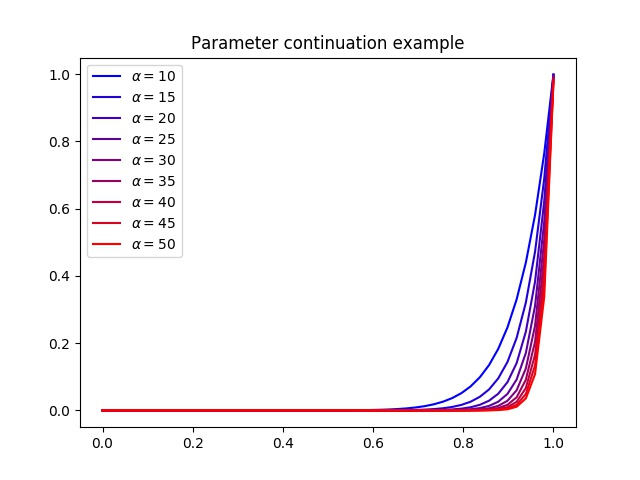
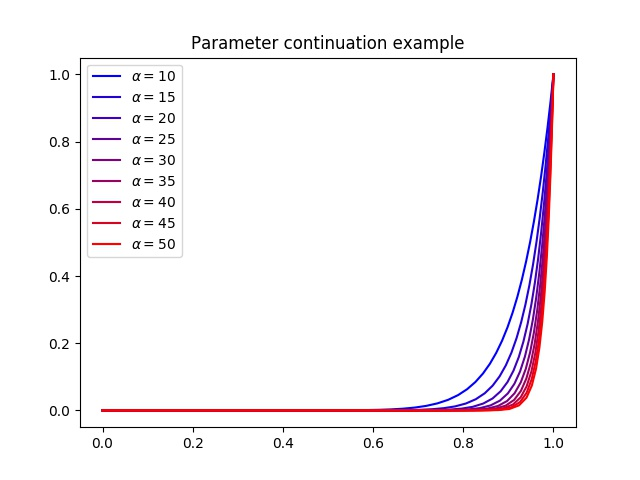
Added getitem methods, save/load test passed, updated documentation

Changed region(s): [[0.75, 0.2188, 0.875, 0.8438], [0.0625, 0.5625, 0.125, 0.5938]]

diff --git a/daepy/collocation.py b/daepy/collocation.py
@@ -8,7 +8,7 @@ class CollocationSolution():
     '''
     Multivariate piecewise polynomial where *N* is the number of components, *degree* is the degree of the continuous components, *breakpoints* are the ends of the subintervals and *continuous* is an (N,) numpy array of booleans determining which components are continuous. If *continuous* is `True` or `False` then all components are set to be continuous or not respectively.
 
-    Each component is a :class:`UnivariateCollocationSolution`. These can be accessed via the :attr:`components` attribute which is a list of the :class:`UnivariateCollocationSolution` components.
+    Each component is a :class:`UnivariateCollocationSolution`. These can be accessed by indexing the object or via the :attr:`components` attribute which is a list of the :class:`UnivariateCollocationSolution` components.
 
     .. note::
         Labelling a component as continuous does not guarantee that it will be continuous, it only means that it will be represented by poynomials one degree higher than components labelled as not continuous.
@@ -26,16 +26,19 @@ class CollocationSolution():
         self.intervals = len(self.breakpoints) - 1
         self.collocation_points = np.concatenate([(self.points + 1) / 2 * (self.breakpoints[i+1] - self.breakpoints[i]) + self.breakpoints[i] for i in range(self.intervals)])
         self.components = [UnivariateCollocationSolution(self.degree, self.breakpoints, self.continuous[n]) for n in range(self.N)]
-        self.dimension = sum([self.components[n].dimension for n in range(self.N)])
+        self.dimension = sum([self[n].dimension for n in range(self.N)])
 
     def __call__(self, x):
         return self.eval(x)
+
+    def __getitem__(self, n):
+        return self.components[n]
 
     def get_coeffs(self):
         '''
         Returns the polynomial coefficients.
         '''
-        return np.concatenate([self.components[n].coeffs for n in range(self.N)])
+        return np.concatenate([self[n].coeffs for n in range(self.N)])
 
     def update_coeffs(self, vals):
         '''
@@ -43,8 +46,8 @@ class CollocationSolution():
         '''
         start = 0
         for n in range(self.N):
-            self.components[n].update_coeffs(vals[start:start+self.components[n].dimension])
-            start += self.components[n].dimension
+            self[n].update_coeffs(vals[start:start+self[n].dimension])
+            start += self[n].dimension
 
     def fit(self, x, data, degree=None):
         '''
@@ -53,50 +56,50 @@ class CollocationSolution():
         if degree is None:
             degree = self.degree
         for n in range(self.N):
-            self.components[n].fit(x, data[n], degree=degree)
+            self[n].fit(x, data[n], degree=degree)
 
     def interpolate(self, fun_list):
         '''
         Interpolate a list of functions.
         '''
         for n in range(self.N):
-            self.components[n].interpolate(fun_list[n])
+            self[n].interpolate(fun_list[n])
 
     def fitting_matrix(self):
         '''
         Return the matrix :math:`F` such that :math:`c = Fd` are the polynomial coefficients where :math:`d` is fitting data.
         '''
-        return block_diag(*(self.components[n].fitting_matrix() for n in range(self.N)))
+        return block_diag(*(self[n].fitting_matrix() for n in range(self.N)))
 
     def eval(self, x):
         '''
         Evaluate the piecewise polynomials. This can also be achieved by simply calling the object like a function, that is :code:`sol(x)` is equivalent to :code:`sol.eval(x)`.
         '''
-        return np.array([self.components[n].eval(x) for n in range(self.N)])
+        return np.array([self[n].eval(x) for n in range(self.N)])
 
     def eval_matrix(self, x):
         '''
         Return the matrix :math:`E` such that :math:`Ec = y(x)` where :math:`c` are the polynomial coefficients and :math:`y(x)` is the piecewise polynomial evaluated at points *x*.
         '''
-        return block_diag(*(self.components[n].eval_matrix(x) for n in range(self.N)))
+        return block_diag(*(self[n].eval_matrix(x) for n in range(self.N)))
 
     def derivative(self, x):
         '''
         Calculate the derivative at points *x*.
         '''
-        return np.array([self.components[n].derivative(x) for n in range(self.N)])
+        return np.array([self[n].derivative(x) for n in range(self.N)])
 
     def derivative_matrix(self, x=None):
         '''
         Return the matrix :math:`D` such that :math:`Dc = y'(x)` where :math:`c` are the polynomial coefficients and :math:`y'(x)` is the derivative of the piecewise polynomial evaluated at points *x*. If *x* is not given then it is taken to be the collocation points and the matrix is constructed using a faster routine than for general *x*.
         '''
-        return block_diag(*(self.components[n].derivative_matrix(x) for n in range(self.N)))
+        return block_diag(*(self[n].derivative_matrix(x) for n in range(self.N)))
 
     def continuity_error(self):
         '''
         Return the continuity error for continuous variables.
         '''
-        return np.concatenate([self.components[n].continuity_error() for n in range(self.N)])
+        return np.concatenate([self[n].continuity_error() for n in range(self.N)])
 
     def continuity_jacobian(self):
         '''
@@ -107,22 +110,22 @@ class CollocationSolution():
         col = 0
         for n in range(self.N):
             if self.continuous[n]:
-                cc_jac[row:row+self.intervals-1,col:col+self.components[n].dimension] = self.components[n].continuity_jacobian()
+                cc_jac[row:row+self.intervals-1,col:col+self[n].dimension] = self[n].continuity_jacobian()
                 row += self.intervals-1
-            col += self.components[n].dimension
+            col += self[n].dimension
         return cc_jac
 
     def integral(self):
         '''
         Integrate the piecewise polynomial over the whole interval.
         '''
-        return np.array([self.components[n].integral() for n in range(self.N)])
+        return np.array([self[n].integral() for n in range(self.N)])
 
     def antiderivative(self, x):
         '''
         Calculate the antiderivative of the piecewise polynomial at points *x*. The antiderivative at 0 is 0.
         '''
-        return np.array([self.components[n].antiderivative(x) for n in range(self.N)])
+        return np.array([self[n].antiderivative(x) for n in range(self.N)])
 
 class UnivariateCollocationSolution():
     def __init__(self, degree, breakpoints, continuous=False):

diff --git a/daepy/bvp.py b/daepy/bvp.py
@@ -265,7 +265,10 @@ class BVP():
 
 class BVPSolution():
     '''
-    Solution to a BVP. This class collects the collocation solution, coordinate transform and coordinate scaling together. The collocation solution (parametrised by the internal coordinate) can be accessed using the :attr:`solution` attribute and the components of the coordinate transform can be accessed using the :attr:`forward` and :attr:`backward` shortcut attributes. The solution can be evaluated at transformed coordinates by calling the object like a function or using the :meth:`eval` method (both are equivalent).
+    Solution to a BVP. This class collects the collocation solution, coordinate transform and coordinate scaling together. The collocation solution (parametrised by the internal coordinate) can be accessed using the :attr:`solution` attribute and the components of the coordinate transform can be accessed using the :attr:`forward` and :attr:`backward` shortcut attributes. Individual components of the collocation solution can be accessed by indexing this object. The solution can be evaluated at transformed coordinates by calling the object like a function or using the :meth:`eval` method (both are equivalent).
+
+    .. warning::
+        Indexing a :class:`BVPSolution` object returns components of the solution which are parametrised by the internal coordinate whereas evaluating a :class:`BVPSolution` object evaluates it at points in the transformed coordinate. Therefore :code:`sol[i](x)` is not the same as :code:`sol(x)[i]`. The first is evaluated at points *x* in the internal coordinate and the second is evaluated at points *x* in the transformed coordinate.
     '''
     def __init__(self, N, degree, intervals, continuous):
         self.N = N
@@ -277,12 +280,14 @@ class BVPSolution():
         self.transform = CollocationSolution(2, degree, np.linspace(0,1,intervals+1), continuous=[True, False])
         self.collocation_points = self.solution.collocation_points
         self.dimension = self.solution.dimension + self.transform.dimension
-        self.components = self.solution.components
         self.forward = self.transform.components[0]
         self.backward = self.transform.components[1]
 
     def __call__(self, s):
         return self.eval(s)
+
+    def __getitem__(self, n):
+        return self.solution.components[n]
 
     def state(self):
         '''
@@ -324,7 +329,7 @@ class BVPSolution():
         '''
         Returns the value in [0,1] that corresponds to the delayed value. The delay must be one of the variables of the system with index *delay_index*.
         '''
-        return self.backward(self.components[delay_index](x))
+        return self.backward(self[delay_index](x))
 
     def derivative_wrt_current(self, x, jac=None, nonautonomous_jac=None, sparse=True):
         '''
@@ -418,11 +423,11 @@ class BVPSolution():
 
         x_scale = self.forward.derivative(x)
         if delay_index > 0:
-            start = np.sum([c.dimension for c in self.components[:delay_index]])
+            start = np.sum([c.dimension for c in self[:delay_index]])
         else:
             start = 0
-        end = start + self.components[delay_index].dimension
-        sigma_x = self.components[delay_index](x)
+        end = start + self[delay_index].dimension
+        sigma_x = self[delay_index](x)
         sigma_t = self.backward(sigma_x)
 
         try:
@@ -432,9 +437,9 @@ class BVPSolution():
         Jj = np.zeros((dim*K,self.N*K))
         for k in range(K):
             Jj[k:dim*K:K, k:self.N*K:K] = jac(x[k], self)
-        derivative_wrt_sigma = np.concatenate([np.diag(self.components[n].derivative(sigma_t)) for n in range(self.N)], axis=0)
+        derivative_wrt_sigma = np.concatenate([np.diag(self[n].derivative(sigma_t)) for n in range(self.N)], axis=0)
         sigma_prime = np.zeros((self.collocation_points.shape[0], self.solution.dimension))
-        sigma_prime[:,start:end] = diags((self.backward.derivative(sigma_x)), format='csr').dot(self.components[delay_index].eval_matrix(x))
+        sigma_prime[:,start:end] = diags((self.backward.derivative(sigma_x)), format='csr').dot(self[delay_index].eval_matrix(x))
         M = csr_matrix(derivative_wrt_sigma).dot(csc_matrix(sigma_prime))
         M = csc_matrix(M) + csc_matrix(self.solution.eval_matrix(sigma_t))
         J = csr_matrix(Jj).dot(M)

diff --git a/test/test_continuation.py b/test/test_continuation.py
@@ -16,7 +16,7 @@ bvp.initial_guess([lambda x: 0], initial_interval=[0,1])
 def callback(p, sol):
     colour = (min((p-10)/40, 1.0), 0.0, max(1-(p-10)/40, 0.0))
     l = np.linspace(0,1)
-    plt.plot(l, sol(l)[0], color=colour)
+    plt.plot(sol.forward(l), sol[0](l), color=colour) # plot using internal coordinate for smoother lines
 
 steps = list(range(15,51,5))
 bvp.continuation(alpha, method='pseudo_arclength', steps=steps, tol=1e-14, maxiter=100, disp=True, callback=callback)

diff --git a/test/test_save_load.py b/test/test_save_load.py
@@ -1,0 +1,17 @@
+from sys import path
+path.insert(0, '..')
+import numpy as np
+from daepy.bvp import load_solution
+from matplotlib import pyplot as plt
+
+alpha = 5
+
+sol = load_solution('test.npz')
+
+l = np.linspace(0,1)
+plt.plot(l, sol(l)[0])
+plt.plot(l, l**(3+alpha), '--')
+
+plt.legend(['Numerical solution', 'Analytical solution'])
+plt.title('Save/load test')
+plt.show()

diff --git a/test/test_system.py b/test/test_system.py
@@ -15,7 +15,7 @@ class DAE():
 
         r = np.zeros((self.N,x.shape[0]))
 
-        r[0] = y.components[0].eval(sigma) + (3+self.alpha)*s**(2+self.alpha) - s**((3+self.alpha)**2) - y_prime[0]
+        r[0] = y[0](sigma) + (3+self.alpha)*s**(2+self.alpha) - s**((3+self.alpha)**2) - y_prime[0]
 
         return r
 

diff --git a/test/test_basic_usage.py b/test/test_basic_usage.py
@@ -22,3 +22,5 @@ plt.plot(l, l**(3+alpha), '--')
 plt.legend(['Numerical solution', 'Analytical solution'])
 plt.title('Basic usage example')
 plt.show()
+
+sol.save('test')

diff --git a/docs/index.rst b/docs/index.rst
@@ -6,7 +6,7 @@
 Introduction
 =================================
 
-DAEpy is a Python library for solving boundary value problems of differential algebraic equations with advanced and retarded (forward and backward) delays. It also contains routines for parameter continuation. The :download:`numerical method <summary.pdf>` is based on collocation.
+DAEpy is a Python library for solving boundary value problems of differential algebraic equations with advanced and retarded (forward and backward) delays. It also contains routines for parameter continuation. The :download:`numerical method <summary.pdf>` is based on collocation. The `source code <https://github.com/alastairflynn/daepy>`_ is available on Github.
 
 Installation
 ============
@@ -19,7 +19,7 @@ This will install DAEpy and all its dependencies. It is recommended, but not nec
 
   pip install scikit-umfpack
 
-Usage & Examples
+Usage
 ================
 
 The user must define their system by a Python class. A template class can be imported by ::
@@ -95,6 +95,9 @@ Once a problem definition has been written, the :class:`.BVP` class is used to c
   sol = bvp.solve()
 
 The solution is a :class:`.BVPSolution` object. A continuation run can be performed using the :meth:`.continuation` method (it is not necessary to call :meth:`.solve` before :meth:`.continuation`).
+
+Examples
+========
 
 There is a :ref:`basic usage example <basic_example>` and a :ref:`parameter continuation <continuation_example>` example.
 

diff --git a/docs/examples.rst b/docs/examples.rst
@@ -81,7 +81,7 @@ Now we define a callback function which will plot the solution at each continuat
   def callback(p, sol):
       colour = (min((p-10)/40, 1.0), 0.0, max(1-(p-10)/40, 0.0))
       l = np.linspace(0,1)
-      plt.plot(l, sol(l)[0], color=colour)
+      plt.plot(sol.forward(l), sol[0](l), color=colour) # plot using internal coordinate for smoother lines
 
 Now can perform the parameter continuation. ::
 

diff --git a/docs/example_problem_definition.rst b/docs/example_problem_definition.rst
@@ -27,7 +27,7 @@ where :math:`t \in [0,1]` and :math:`y(0) = 0`. ::
 
           r = np.zeros((self.N,x.shape[0]))
 
-          r[0] = y.components[0].eval(sigma) + (3+self.alpha)*s**(2+self.alpha) - s**((3+self.alpha)**2) - y_prime[0]
+          r[0] = y[0](sigma) + (3+self.alpha)*s**(2+self.alpha) - s**((3+self.alpha)**2) - y_prime[0]
 
           return r
 
